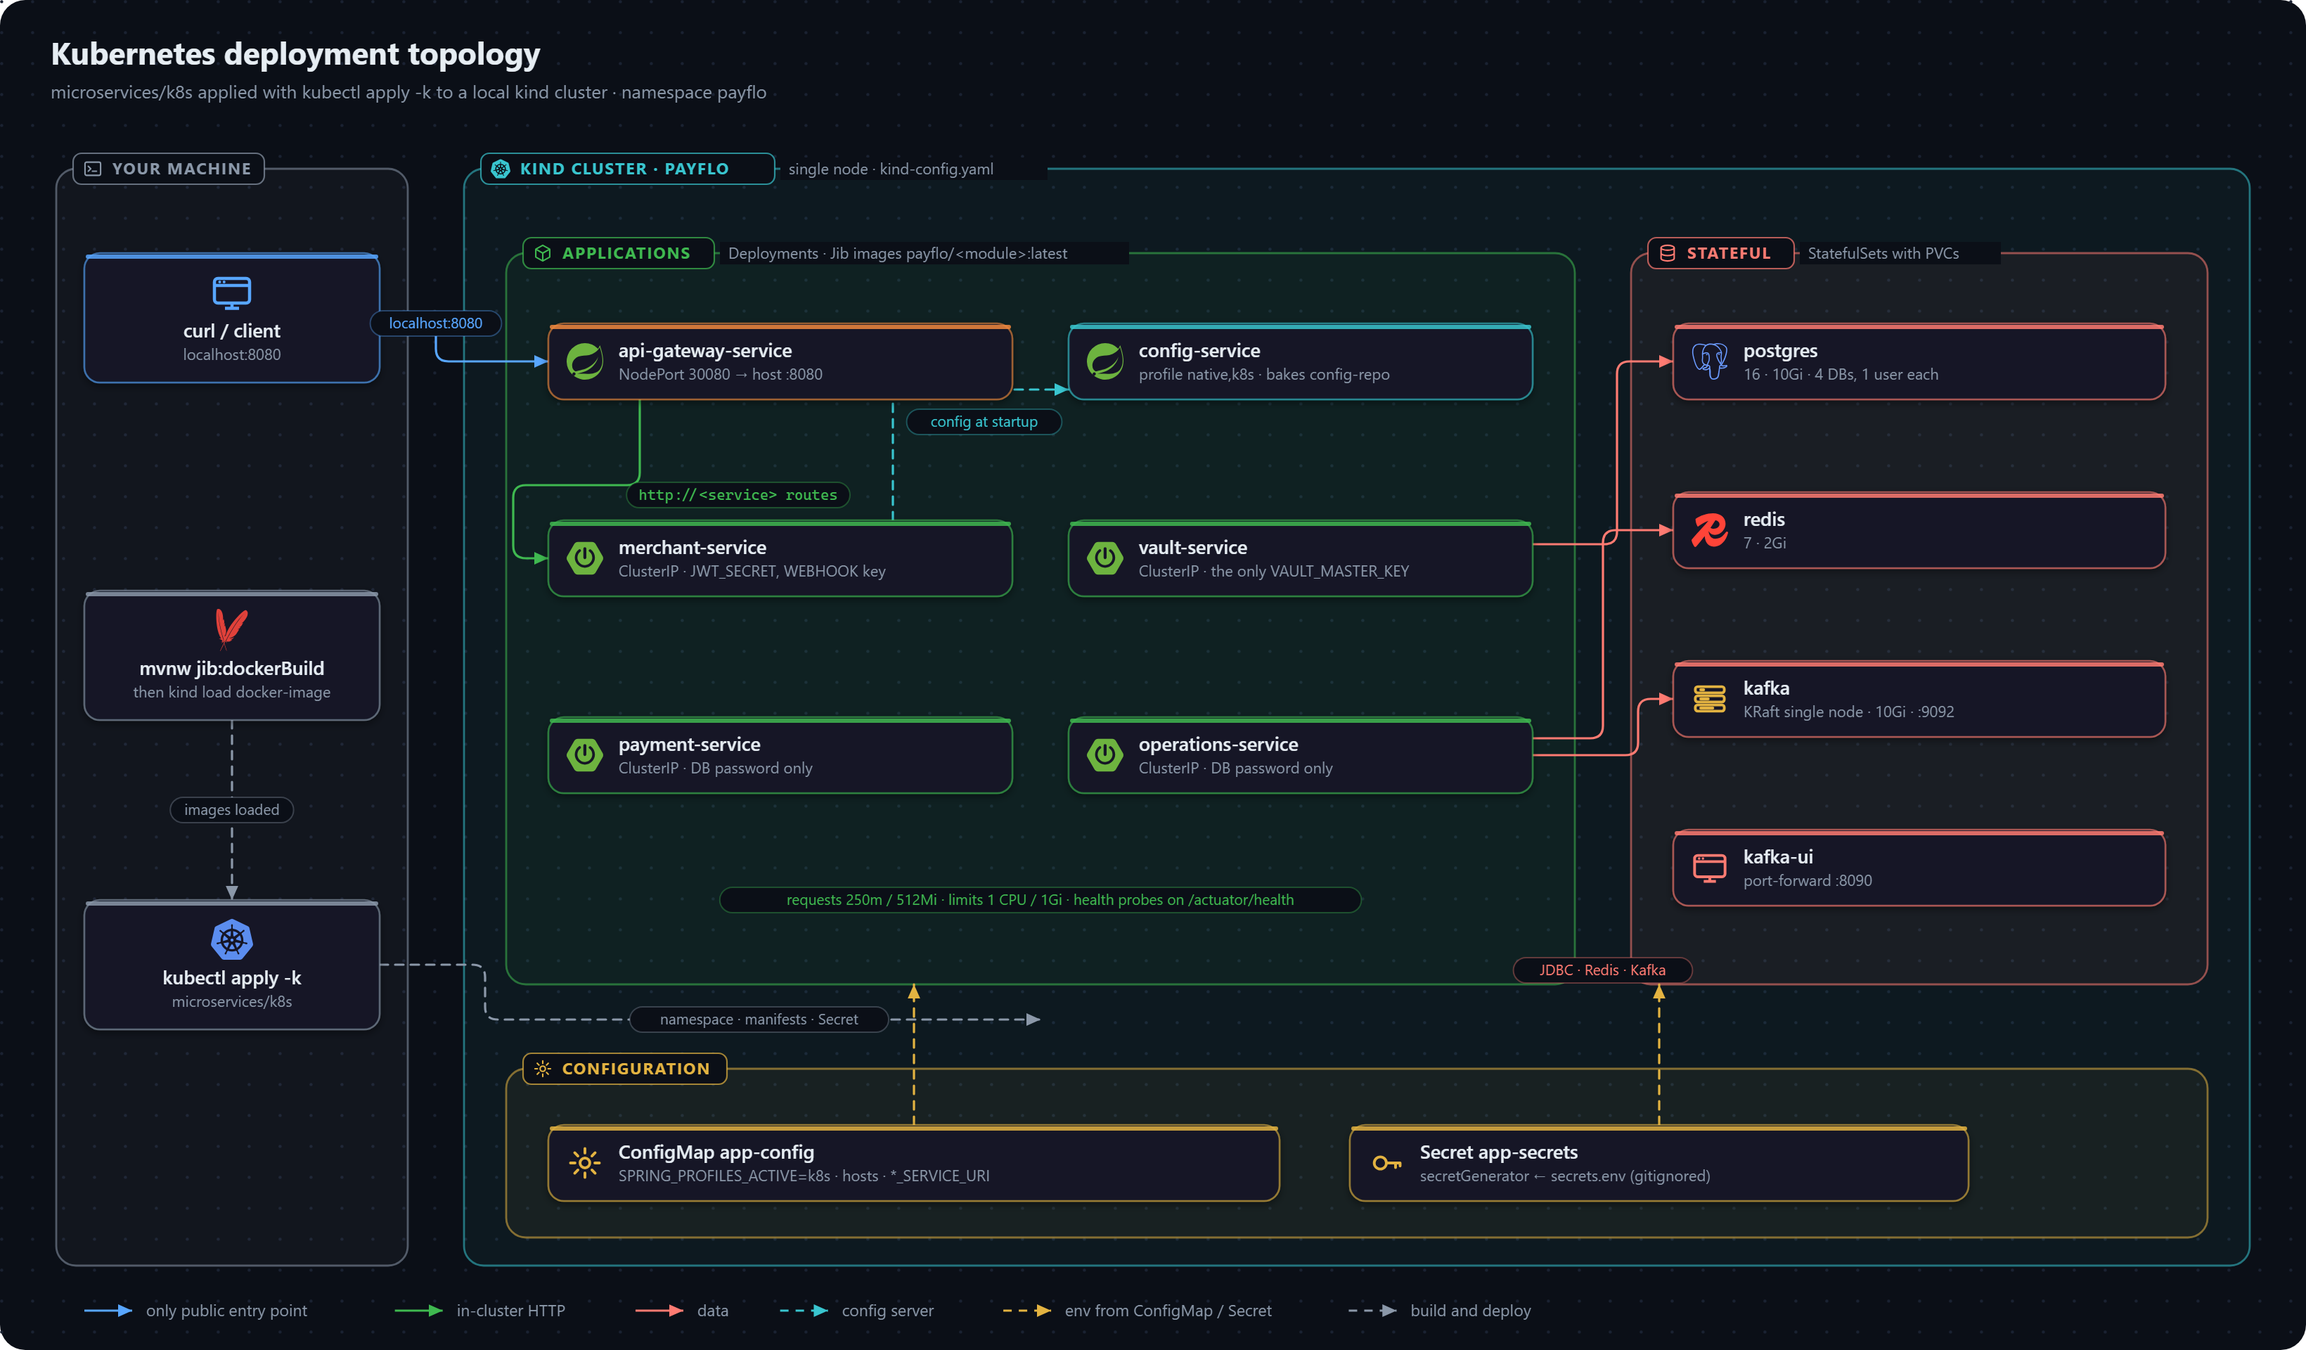
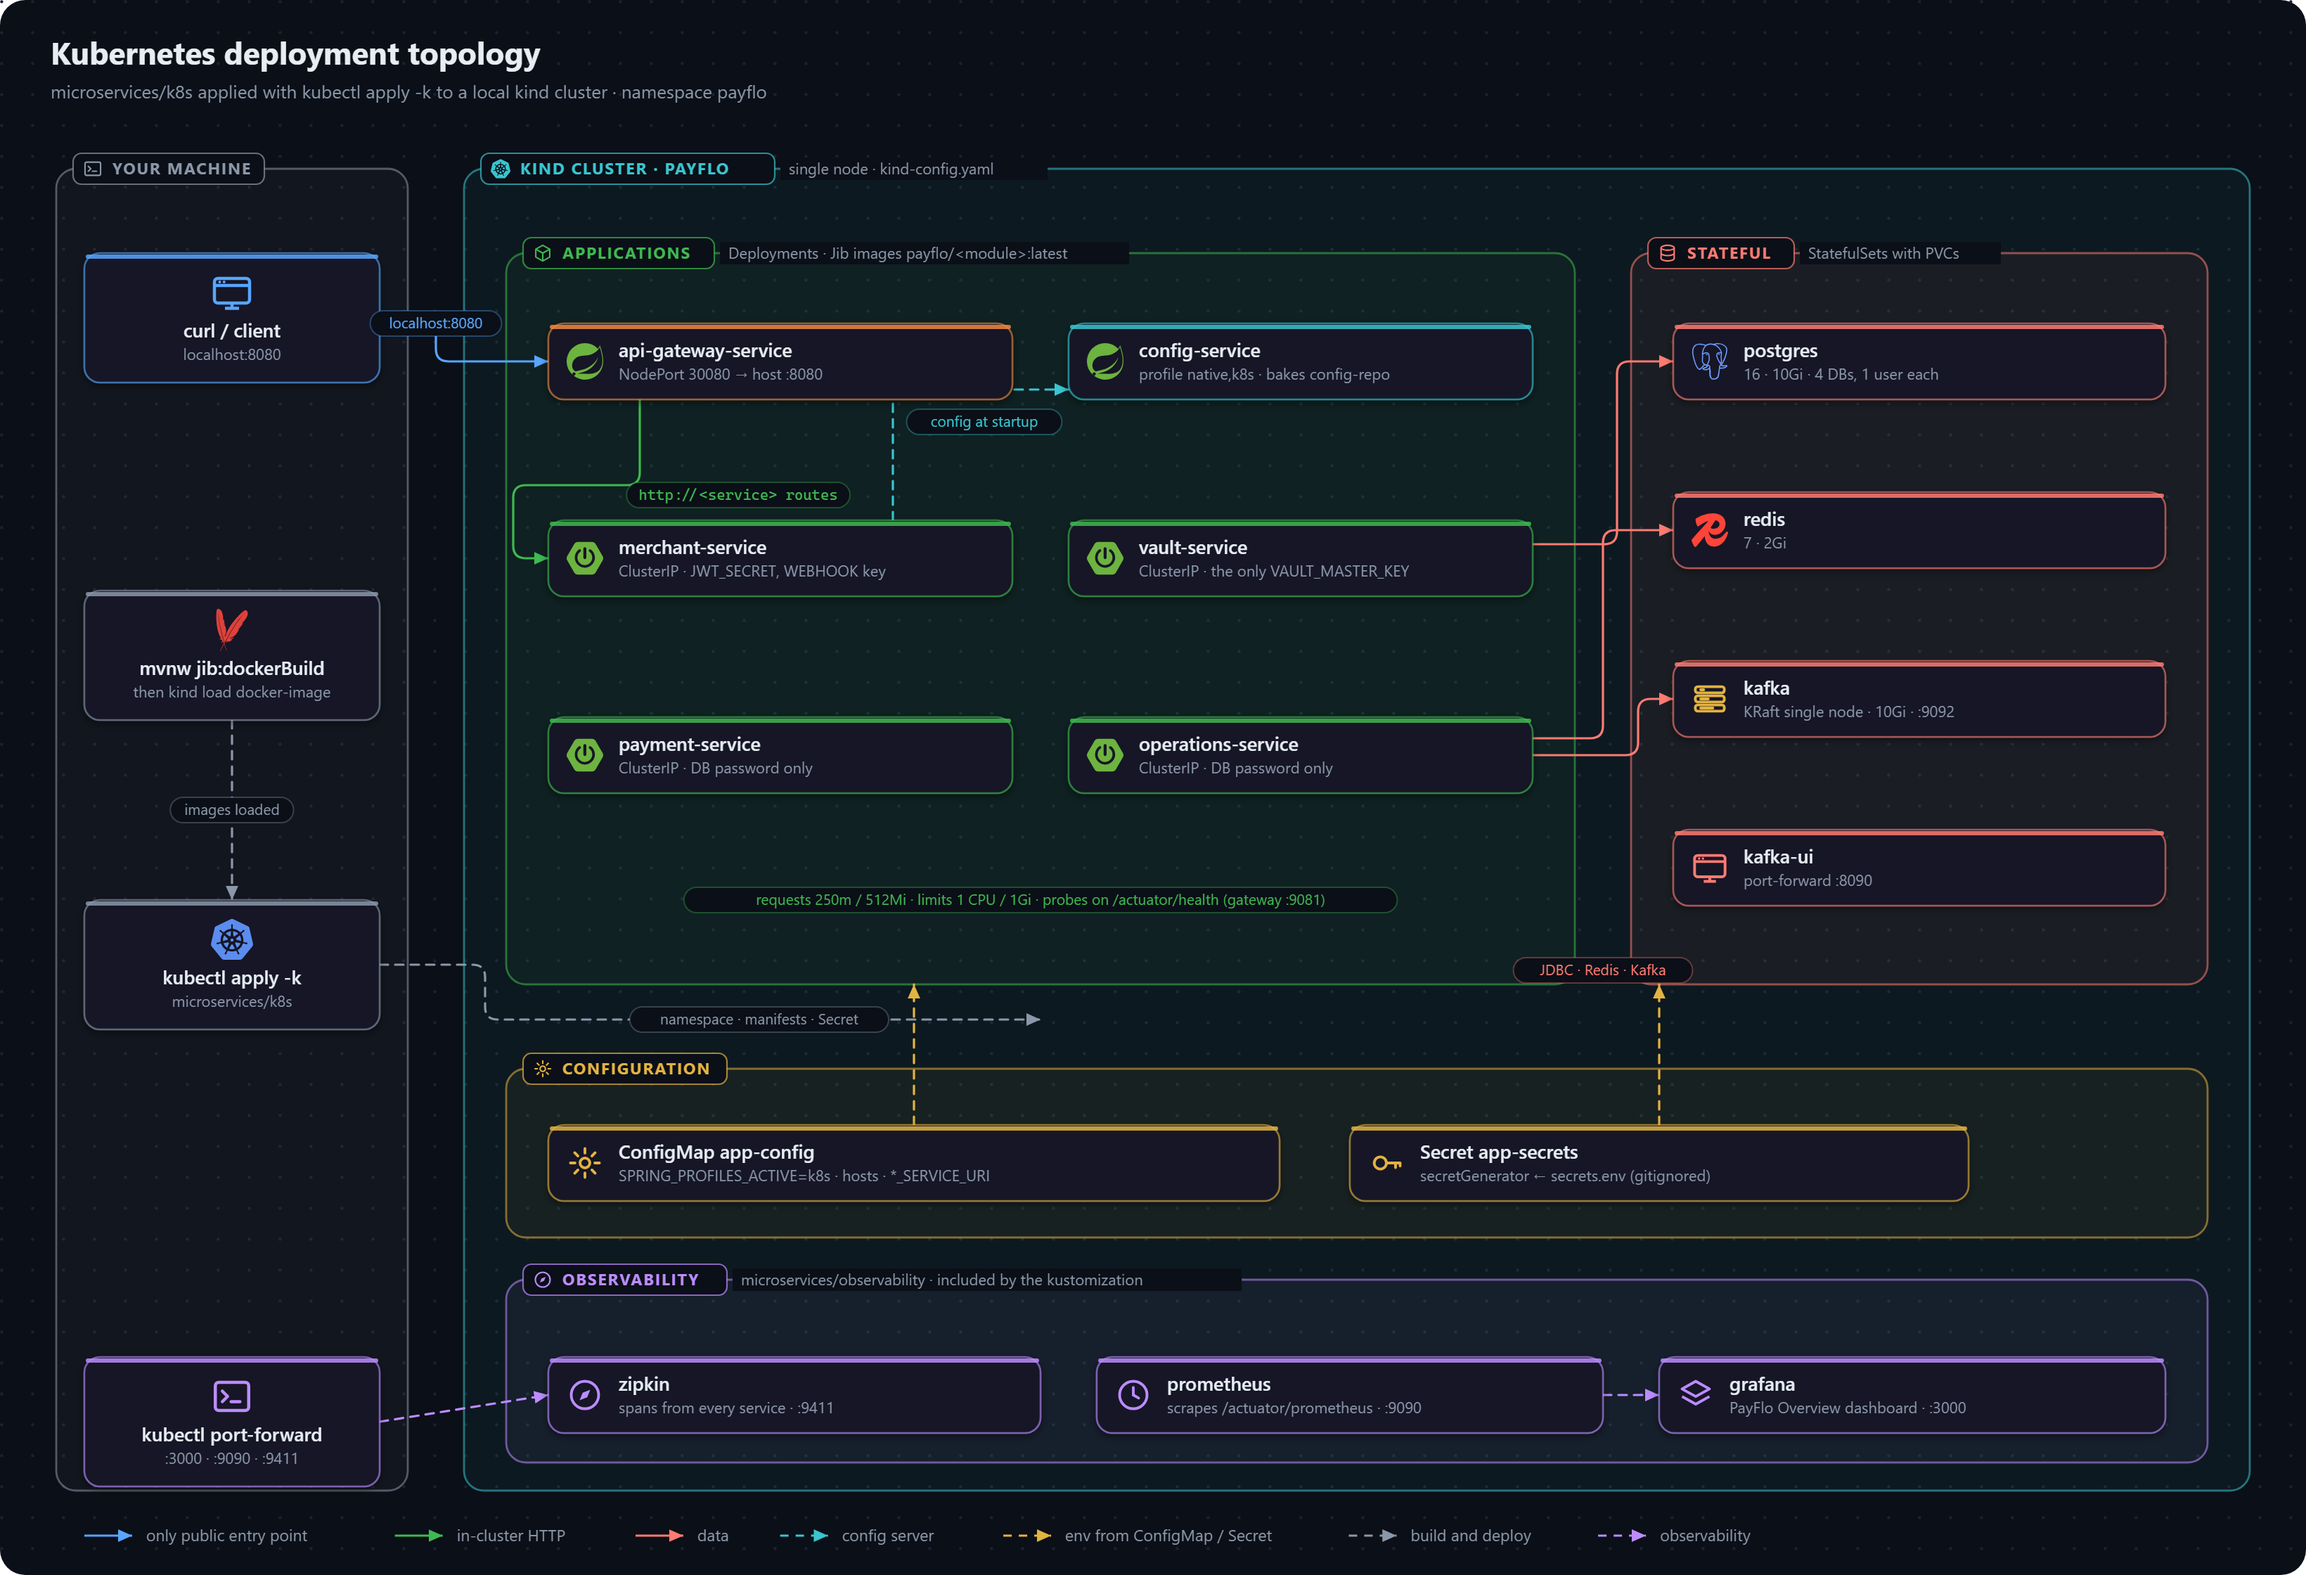
feat: run Zipkin, Prometheus and Grafana on the kind cluster

diff --git a/docs/assets/diagrams/src/d_platform.py b/docs/assets/diagrams/src/d_platform.py
@@ -60,13 +60,14 @@ def service_communication():
 
 
 def deployment_topology():
-    s = Scene(1640, 960, "Kubernetes deployment topology",
+    s = Scene(1640, 1120, "Kubernetes deployment topology",
               "microservices/k8s applied with kubectl apply -k to a local kind cluster · namespace payflo")
-    s.group(40, 120, 250, 780, "Your machine", GR, "terminal")
-    s.group(330, 120, 1270, 780, "kind cluster · payflo", T, "kubernetes", sub="single node · kind-config.yaml")
+    s.group(40, 120, 250, 940, "Your machine", GR, "terminal")
+    s.group(330, 120, 1270, 940, "kind cluster · payflo", T, "kubernetes", sub="single node · kind-config.yaml")
     s.group(360, 180, 760, 520, "Applications", G, "box", sub="Deployments · Jib images payflo/<module>:latest")
     s.group(1160, 180, 410, 520, "Stateful", R, "db", sub="StatefulSets with PVCs")
     s.group(360, 760, 1210, 120, "Configuration", Y, "gear")
+    s.group(360, 910, 1210, 130, "Observability", P, "compass", sub="microservices/observability · included by the kustomization")
 
     br = s.node(60, 180, "curl / client", "browser", "localhost:8080", w=210, accent=B, icolor=B)
     jib = s.node(60, 420, "mvnw jib:dockerBuild", "apachemaven", "then kind load docker-image", w=210, accent=GR)
@@ -82,7 +83,7 @@ def deployment_topology():
     ps = s.node(390, 510, "payment-service", "springboot", "ClusterIP · DB password only", layout="row", w=330, accent=G)
     os_ = s.node(760, 510, "operations-service", "springboot", "ClusterIP · DB password only", layout="row", w=330,
                  accent=G)
-    s.pill(740, 640, "requests 250m / 512Mi · limits 1 CPU / 1Gi · health probes on /actuator/health", G)
+    s.pill(740, 640, "requests 250m / 512Mi · limits 1 CPU / 1Gi · probes on /actuator/health (gateway :9081)", G)
 
     pg = s.node(1190, 230, "postgres", "postgresql", "16 · 10Gi · 4 DBs, 1 user each", layout="row", w=350, accent=R)
     rd = s.node(1190, 350, "redis", "redis", "7 · 2Gi", layout="row", w=350, accent=R)
@@ -108,7 +109,16 @@ def deployment_topology():
     s.pill(1140, 690, "JDBC · Redis · Kafka", R)
     s.edge([cm.t(), (cm.cx, 700)], None, Y, dashed=True)
     s.edge([sc.t(), (sc.cx, 700)], None, Y, dashed=True)
-    s.legend(60, 932, [("solid", B, "only public entry point"), ("solid", G, "in-cluster HTTP"), ("solid", R, "data"),
+    zk = s.node(390, 965, "zipkin", "compass", "spans from every service · :9411", layout="row", w=350, accent=P,
+                icolor=P)
+    pr = s.node(780, 965, "prometheus", "clock", "scrapes /actuator/prometheus · :9090", layout="row", w=360, accent=P,
+                icolor=P)
+    gf = s.node(1180, 965, "grafana", "layers", "PayFlo Overview dashboard · :3000", layout="row", w=360, accent=P,
+                icolor=P)
+    s.edge([pr.r(), gf.l()], None, P, dashed=True)
+    pf = s.node(60, 965, "kubectl port-forward", "terminal", ":3000 · :9090 · :9411", w=210, accent=P, icolor=P)
+    s.edge([pf.r(), zk.l()], None, P, dashed=True)
+    s.legend(60, 1092, [("solid", B, "only public entry point"), ("solid", G, "in-cluster HTTP"), ("solid", R, "data"),
                         ("dashed", T, "config server"), ("dashed", Y, "env from ConfigMap / Secret"),
-                        ("dashed", GR, "build and deploy")])
+                        ("dashed", GR, "build and deploy"), ("dashed", P, "observability")])
     return s

diff --git a/docs/deployment/kubernetes.md b/docs/deployment/kubernetes.md
@@ -18,6 +18,12 @@ microservices/k8s/
   services/
     config-service.yaml, merchant-service.yaml, vault-service.yaml,
     payment-service.yaml, operations-service.yaml, api-gateway-service.yaml
+
+microservices/observability/   included from k8s/kustomization.yaml as ../observability
+  kustomization.yaml       ConfigMaps generated from the files below, shared with the local stack
+  k8s/zipkin.yaml, k8s/prometheus.yaml, k8s/grafana.yaml
+  prometheus/prometheus-k8s.yml   in-cluster scrape targets
+  grafana/                 datasources, dashboard provider and the PayFlo dashboard
 ```
 
 ## Stateful components
@@ -45,9 +51,19 @@ Every application is one Deployment and one Service with the same shape:
 | `vault-service` | `VAULT_MASTER_KEY` — the only pod that gets it — and its DB password | ClusterIP |
 | `payment-service` | its DB password | ClusterIP |
 | `operations-service` | its DB password | ClusterIP |
-| `api-gateway-service` | `JWT_SECRET` (to verify tokens) | **NodePort `30080`** — the only Service reachable from outside |
+| `api-gateway-service` | `JWT_SECRET` (to verify tokens) | **NodePort `30080`** — the only Service reachable from outside. A second, ClusterIP Service `api-gateway-management` exposes its management port `9081` (health, metrics) inside the cluster only |
 
 `discovery-service` isn't deployed: the `k8s` profile turns Eureka off and services address each other through Kubernetes Services.
+
+## Observability
+
+| Component | Kind | Notes |
+|---|---|---|
+| `zipkin` | Deployment | In-memory storage — traces are lost on restart. Every service reports to `http://zipkin:9411` (`ZIPKIN_URL` in the ConfigMap) |
+| `prometheus` | StatefulSet, 5Gi PVC | Scrapes every service every 10 s by Service name — the business services on port 80, the gateway through `api-gateway-management:9081`. Keeps 7 days |
+| `grafana` | Deployment | Datasources, dashboard provider and the PayFlo dashboard mounted from ConfigMaps generated from `microservices/observability/`; admin password from `GRAFANA_ADMIN_PASSWORD` in `app-secrets` |
+
+The ConfigMap also sets `TRACING_SAMPLING_PROBABILITY=0.1`, so the cluster traces one request in ten. See [observability](../observability/README.md).
 
 ## Start-up order
 
@@ -55,4 +71,4 @@ Kustomize applies everything at once. Ordering comes from the services themselve
 
 ## Not included
 
-One replica per service, no Ingress controller, no HorizontalPodAutoscaler, no `NetworkPolicy`, no image registry or CI — see [known gaps](../known-gaps/not-yet-built.md#platform).
+One replica per service, no Ingress controller, no HorizontalPodAutoscaler, no `NetworkPolicy`, no alerting rules, no image registry or CI — see [known gaps](../known-gaps/not-yet-built.md#platform).

diff --git a/docs/deployment/configuration.md b/docs/deployment/configuration.md
@@ -22,6 +22,8 @@ The `app-config` ConfigMap sets `SPRING_PROFILES_ACTIVE=k8s` for every service, 
 | `KAFKA_BROKERS` | `kafka:9092` |
 | `REDIS_HOST`, `REDIS_PORT` | `redis`, `6379` |
 | `MERCHANT_SERVICE_URI`, `PAYMENT_SERVICE_URI`, `VAULT_SERVICE_URI`, `OPERATIONS_SERVICE_URI` | `http://<service>` — the Feign clients' base URLs while Eureka is off |
+| `ZIPKIN_URL` | `http://zipkin:9411/api/v2/spans` — where every service reports spans |
+| `TRACING_SAMPLING_PROBABILITY` | `0.1` — one request in ten is traced in the cluster |
 
 ## Secret `app-secrets`
 
@@ -34,6 +36,7 @@ Generated by Kustomize from `k8s/secrets.env` (copied from `secrets.env.example`
 | `WEBHOOK_SECRET_KEY` | merchant-service only |
 | `POSTGRES_PASSWORD` | the `postgres` superuser |
 | `MERCHANT_DB_PASSWORD`, `PAYMENT_DB_PASSWORD`, `VAULT_DB_PASSWORD`, `OPERATIONS_DB_PASSWORD` | the init script creating each database user, and that service |
+| `GRAFANA_ADMIN_PASSWORD` | Grafana's `admin` login |
 
 ## Adding a setting
 

diff --git a/docs/observability/dashboards.md b/docs/observability/dashboards.md
@@ -33,6 +33,10 @@ Every panel is a PromQL query from [metrics](metrics.md), so anything on the das
 
 The dashboard is provisioned read-only: edit it in Grafana, export the JSON, and replace the file to keep a change.
 
+## On Kubernetes
+
+The same Zipkin, Prometheus and Grafana run in the cluster as part of `kubectl apply -k microservices/k8s`, with the same dashboard file. Reach them with port-forwards — see [running on kind](../deployment/running-on-kind.md#5-use-it) and [the manifests](../deployment/kubernetes.md#observability).
+
 ## Stop it
 
 ```bash

diff --git a/docs/deployment/running-on-kind.md b/docs/deployment/running-on-kind.md
@@ -57,6 +57,12 @@ kubectl -n payflo port-forward svc/kafka-ui 8090:8090                   # browse
 ```
 
 ```bash
+kubectl -n payflo port-forward svc/grafana 3000:3000                    # the PayFlo dashboard at localhost:3000
+kubectl -n payflo port-forward svc/prometheus 9090:9090                 # Prometheus at localhost:9090 (Status → Targets)
+kubectl -n payflo port-forward svc/zipkin 9411:9411                     # traces at localhost:9411
+```
+
+```bash
 kubectl -n payflo exec -it postgres-0 -- psql -U postgres -d payflo_payment
 ```
 
